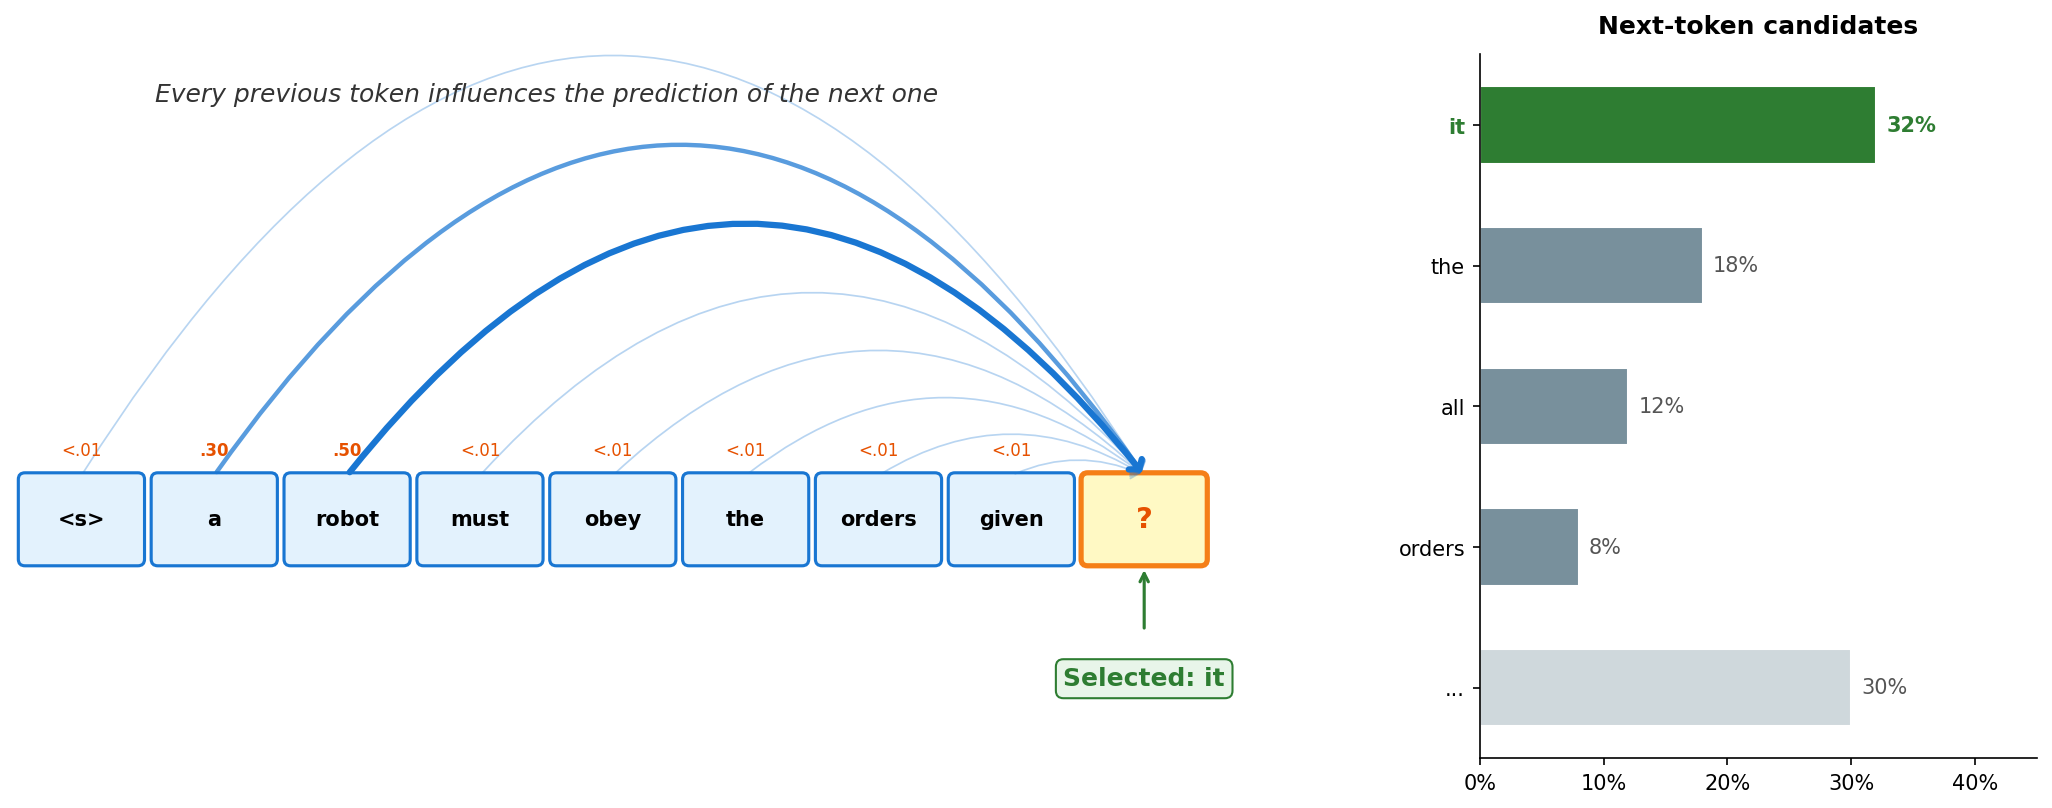
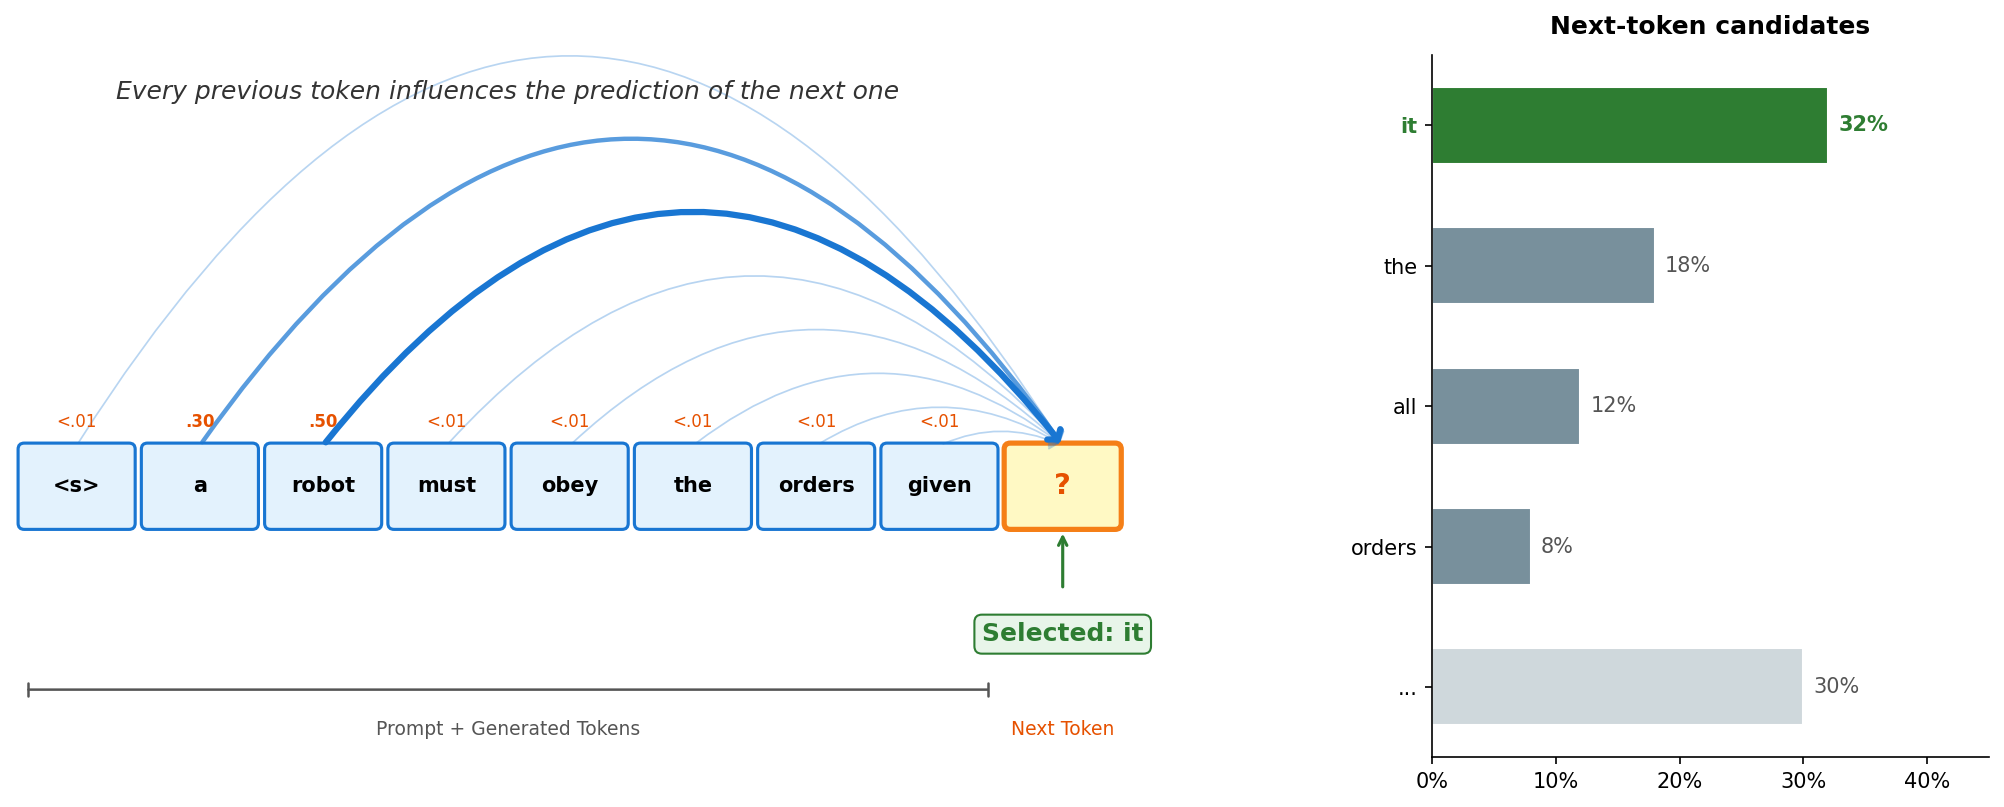
M3: ch08 课件润色 + ch07 图加底部区域标注

diff --git a/Playground/ch07-generation/gen_autoregressive_fig.py b/Playground/ch07-generation/gen_autoregressive_fig.py
@@ -34,7 +34,7 @@ fig.patch.set_facecolor("white")
 
 # === Left panel: sequence + arrows ===
 ax_seq.set_xlim(-0.5, len(TOKENS) + 1.5)
-ax_seq.set_ylim(-1.8, 3.5)
+ax_seq.set_ylim(-2.2, 3.5)
 ax_seq.axis("off")
 ax_seq.set_aspect("equal")
 
@@ -135,6 +135,27 @@ ax_seq.annotate(
     xy=(target_x, Y_TOK - BOX_H / 2 - 0.05),
     xytext=(target_x, -0.85),
     arrowprops={"arrowstyle": "->,head_width=0.2", "color": "#2e7d32", "lw": 1.5},
+)
+
+# Bottom annotation: region labels
+Y_LABEL = -1.65
+# "Prompt + Generated Tokens" centered under existing token boxes
+ax_seq.annotate(
+    "",
+    xy=(0 - BOX_W / 2, Y_LABEL),
+    xytext=(len(TOKENS) - 1 + BOX_W / 2, Y_LABEL),
+    arrowprops={"arrowstyle": "|-|,widthA=0.3,widthB=0.3", "color": "#555555", "lw": 1.2},
+)
+ax_seq.text(
+    (len(TOKENS) - 1) / 2, Y_LABEL - 0.25,
+    "Prompt + Generated Tokens",
+    ha="center", va="top", fontsize=9, color="#555555",
+)
+# "Next Token" under the ? box
+ax_seq.text(
+    target_x, Y_LABEL - 0.25,
+    "Next Token",
+    ha="center", va="top", fontsize=9, color="#e65100",
 )
 
 # === Right panel: candidate probability bar chart ===
